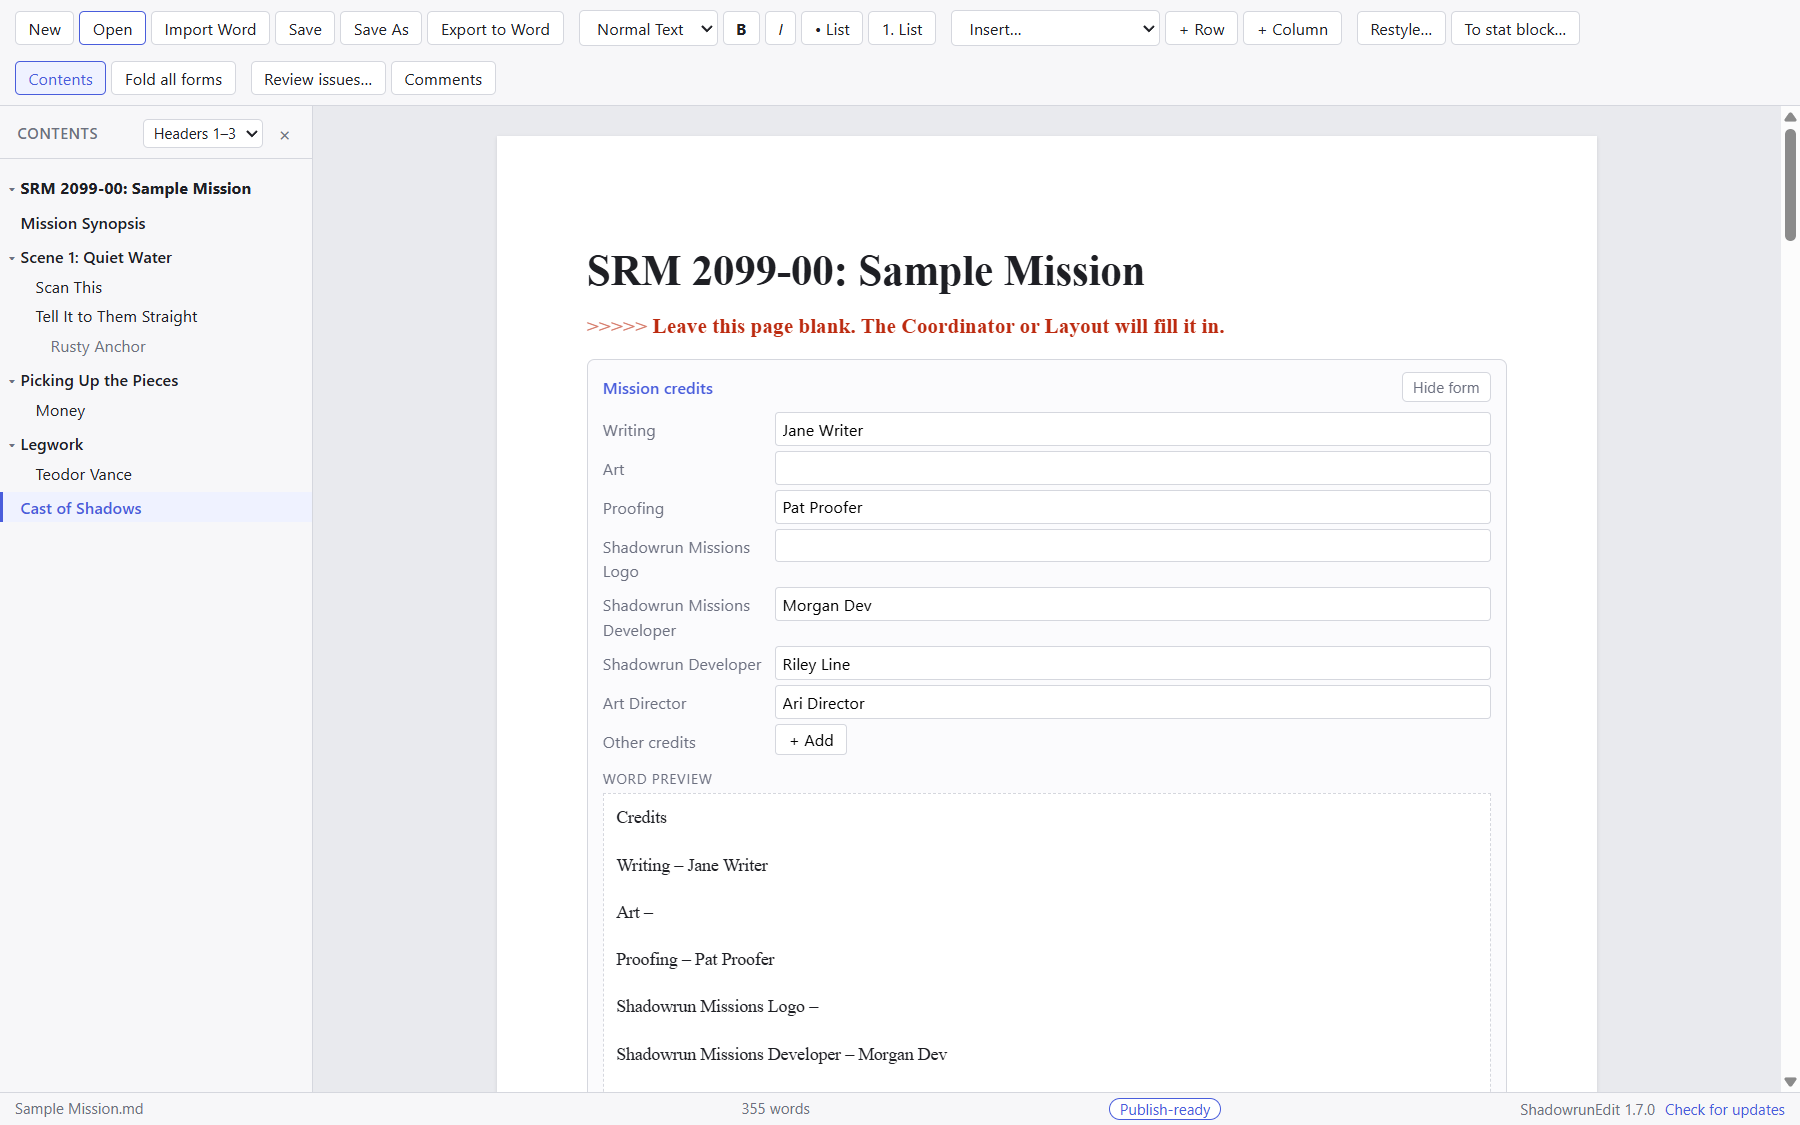
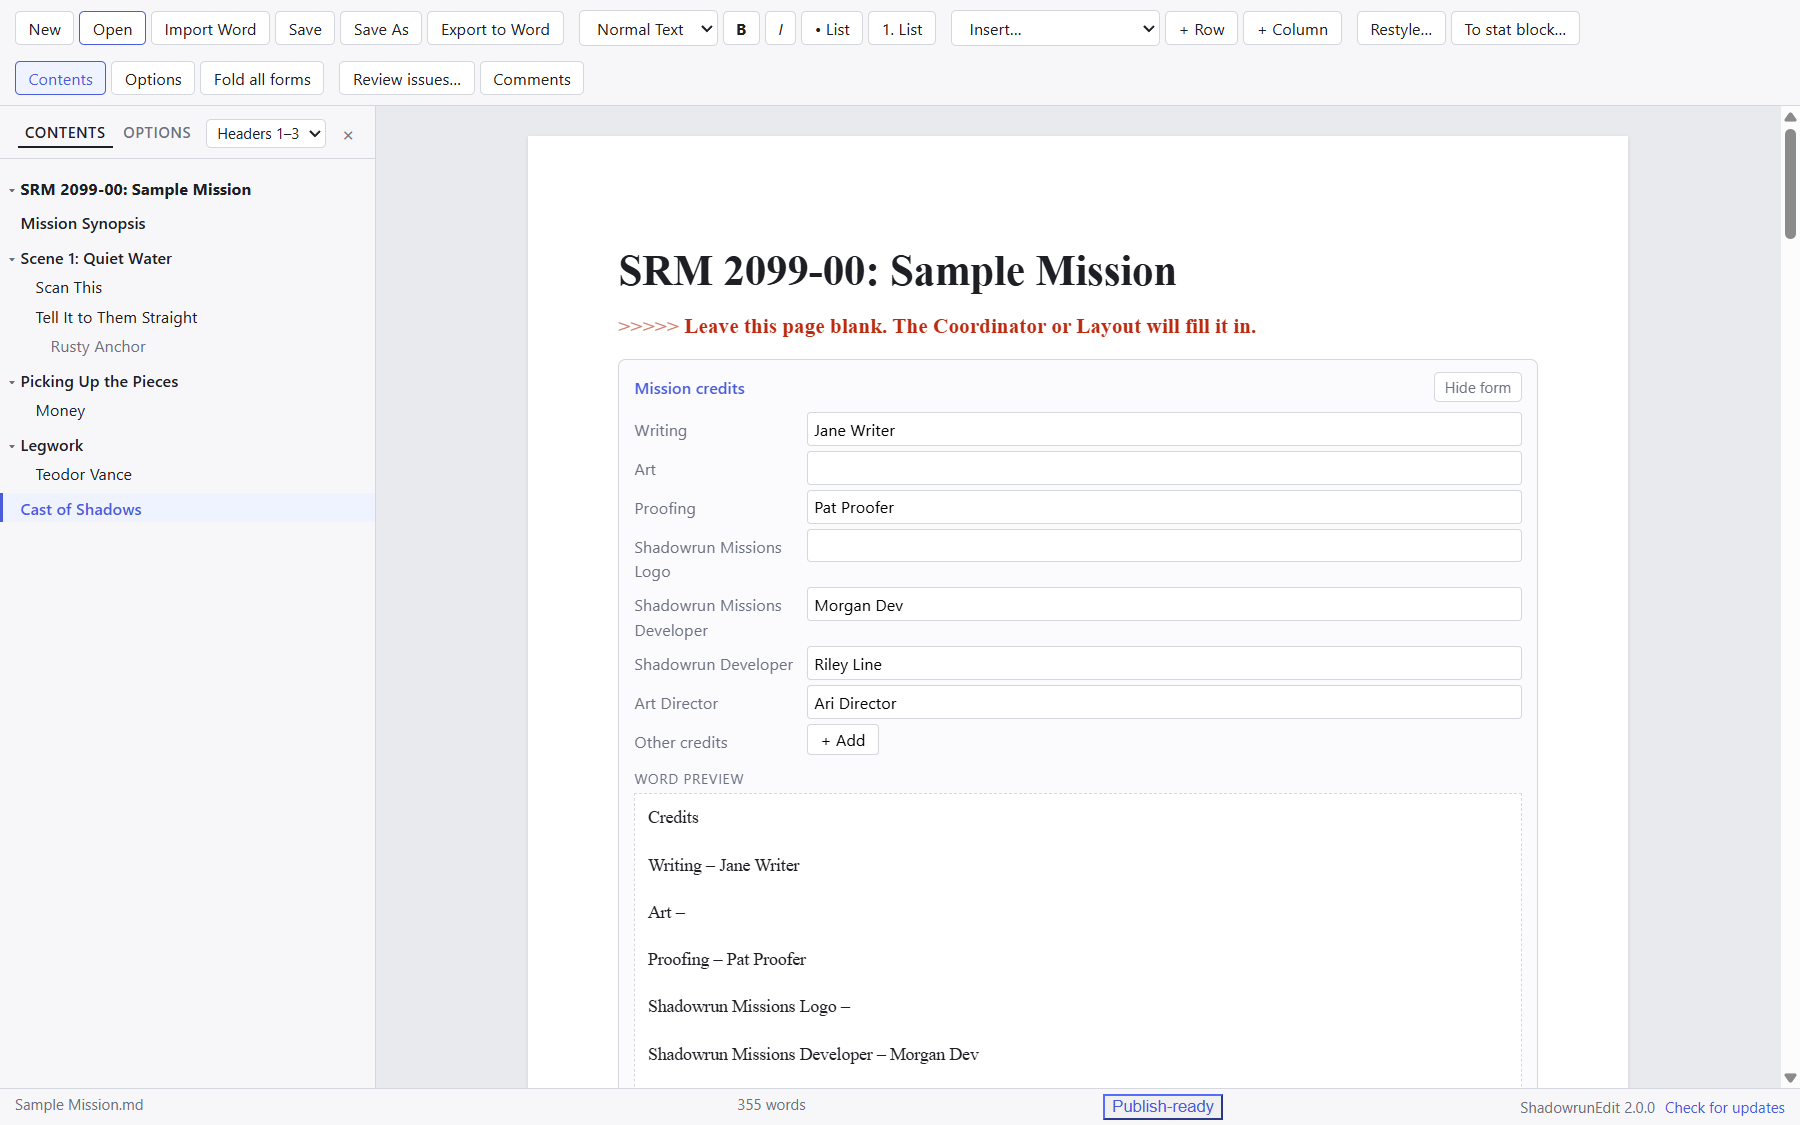
ShadowrunEdit 2.0: the Options tab, and new screenshots

diff --git a/README.md b/README.md
@@ -39,6 +39,12 @@ The Shadowrun Missions 2083 Bestiary comes built in, and you can import others. 
 
 ![Inserting a callout to a Bestiary NPC](screenshots/npc-library.png)
 
+## Your way of working
+
+The **Options** tab, beside Contents, holds the document's stage (Draft or Publish-ready) and its game editions, and turns any check off: style rules, grammar, spelling, references, the stat block check, or the heading and table hints. Writing a draft and don't want the underlines yet? Turn them off, and turn them back on before you submit.
+
+![The Options tab](screenshots/options.png)
+
 ## Export to Word
 
 **Export to Word** writes a manuscript in the publisher's template, ready to submit: the right paragraph styles, tab tables, layout notes, and page breaks before each scene. Documents themselves are saved as plain Markdown files, with autosave and crash recovery.
